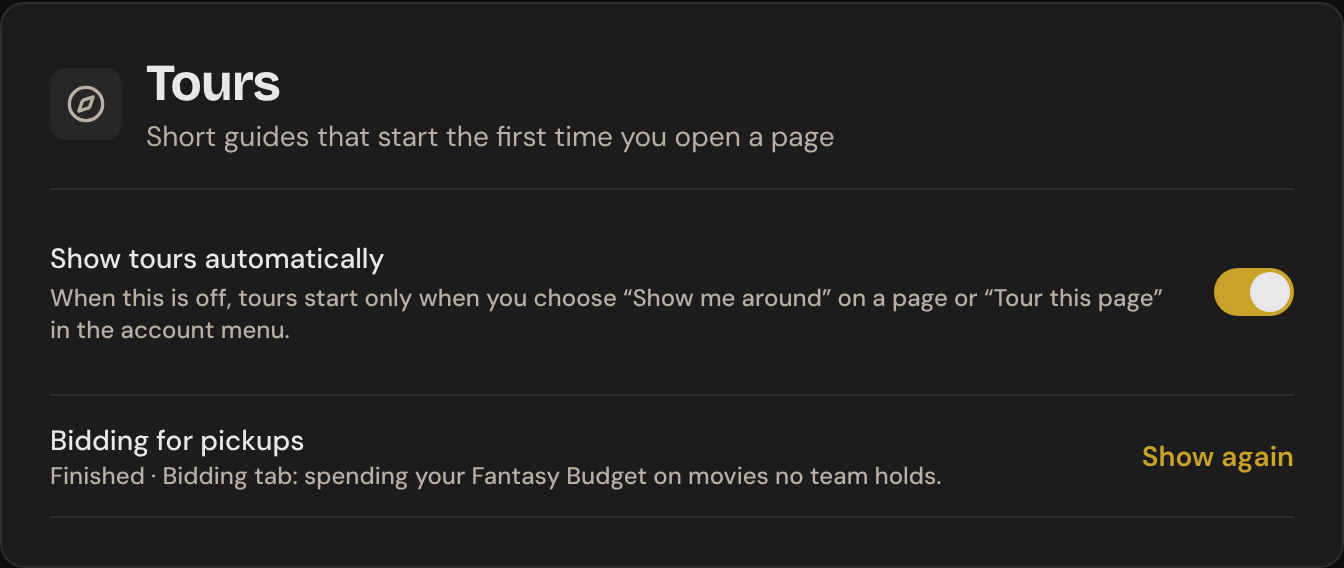
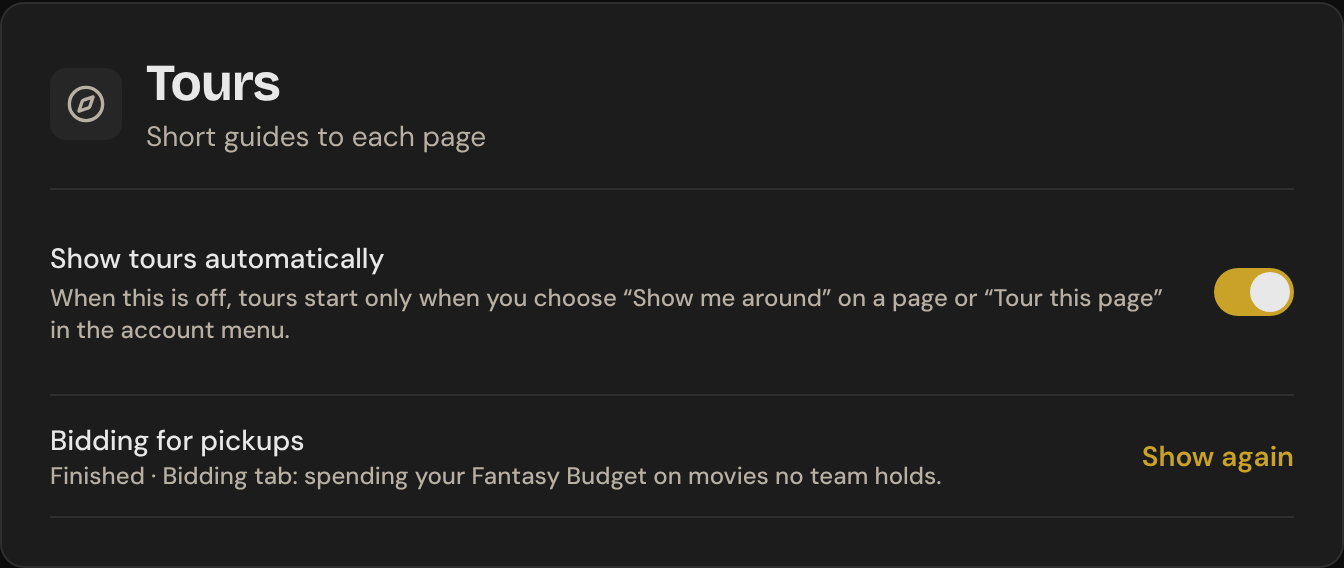
Tours: second design review round
44px phone targets for the close button, Back/Next and the Settings controls;
card border only on keyboard focus. Copy: who pays when the top bid can't
take the movie, budget doesn't refill during the season, drops only when the
roster is full, and Show again toasts that are true when tours are off.

Claude-Session: https://claude.ai/code/session_01Dp5HxViz5UM93jDb9v4QQR

Changed region(s): [[0.25, 0.2095, 0.625, 0.2694]]

diff --git a/apps/frontend/app/(authenticated)/settings/components/TourPreferences.tsx b/apps/frontend/app/(authenticated)/settings/components/TourPreferences.tsx
@@ -39,11 +39,15 @@ export default function TourPreferences(): React.ReactElement {
   const showAgain = useCallback(async (id?: TourId) => {
     try {
       await reset(id)
-      toast.success(id ? 'This tour will start next time you open its page' : 'All tours will start again on your next visit to each page')
+      if (enabled) {
+        toast.success(id ? 'This tour will start next time you open its page' : 'All tours will start again on your next visit to each page')
+      } else {
+        toast.success(id ? 'Tour reset. Choose “Show me around” on its page to see it.' : 'Tours reset. Choose “Show me around” on any page to see its tour.')
+      }
     } catch (error) {
       toast.error(error instanceof Error ? error.message : 'Couldn’t reset your tours. Try again.')
     }
-  }, [reset])
+  }, [enabled, reset])
   const { execute: executeReset, isLoading: resetting } = useAsyncAction(showAgain)
 
   // With one tour, its own Show again button already does this.
@@ -59,7 +63,7 @@ export default function TourPreferences(): React.ReactElement {
           <h2 id="tour-preferences-heading" className="type-section text-foreground">
             Tours
           </h2>
-          <p className="type-body-sm text-foreground-secondary">Short guides that start the first time you open a page</p>
+          <p className="type-body-sm text-foreground-secondary">Short guides to each page</p>
         </div>
       </div>
 
@@ -80,7 +84,7 @@ export default function TourPreferences(): React.ReactElement {
           type="button"
           onClick={() => executeToggle(!enabled)}
           aria-disabled={toggling || undefined}
-          className={`relative w-10 h-6 shrink-0 cursor-pointer rounded-full transition-colors aria-disabled:cursor-wait aria-disabled:opacity-60 ${
+          className={`relative w-10 h-6 shrink-0 cursor-pointer rounded-full before:absolute before:-inset-2.5 transition-colors aria-disabled:cursor-wait aria-disabled:opacity-60 ${
             enabled ? 'bg-gold' : 'bg-elevated border border-border'
           }`}
           role="switch"
@@ -113,7 +117,7 @@ export default function TourPreferences(): React.ReactElement {
                   type="button"
                   onClick={() => executeReset(tour.id as TourId)}
                   aria-disabled={resetting || undefined}
-                  className="type-control shrink-0 text-gold transition-colors hover:text-gold-hover aria-disabled:cursor-wait aria-disabled:opacity-60"
+                  className="type-control inline-flex min-h-[44px] shrink-0 items-center text-gold sm:min-h-0 transition-colors hover:text-gold-hover aria-disabled:cursor-wait aria-disabled:opacity-60"
                 >
                   Show again<span className="sr-only">: {tour.title}</span>
                 </button>

diff --git a/apps/frontend/components/tours/TourOverlay.tsx b/apps/frontend/components/tours/TourOverlay.tsx
@@ -173,7 +173,7 @@ export default function TourOverlay({
         aria-describedby={bodyId}
         data-testid="tour-card"
         data-tour-id={tour.tour.id}
-        className={`card tour-card focus-within:border-gold/40 pointer-events-auto fixed overflow-y-auto p-4 shadow-heavy animate-fade-in motion-reduce:animate-none ${
+        className={`card tour-card has-[:focus-visible]:border-gold/40 pointer-events-auto fixed overflow-y-auto p-4 shadow-heavy animate-fade-in motion-reduce:animate-none ${
           position?.docked ? 'w-[calc(100vw-24px)]' : 'w-[min(22rem,calc(100vw-24px))]'
         } ${position ? '' : 'opacity-0'}`}
         style={position ? { top: position.top, left: position.left, maxHeight: position.maxHeight } : { top: 0, left: 0 }}
@@ -185,7 +185,7 @@ export default function TourOverlay({
           <button
             type="button"
             onClick={onNotNow}
-            className="-mr-2 rounded p-2.5 text-foreground-secondary transition-colors hover:text-foreground"
+            className="-my-2 -mr-3 inline-flex min-h-[44px] min-w-[44px] items-center justify-center rounded text-foreground-secondary transition-colors hover:text-foreground sm:-mr-2 sm:min-h-0 sm:min-w-0 sm:p-2.5"
             aria-label="Not now"
           >
             <X className="h-4 w-4" aria-hidden="true" />
@@ -203,13 +203,13 @@ export default function TourOverlay({
 
         <div className="mt-4 flex items-center justify-between gap-3">
           {tour.index > 0 ? (
-            <button type="button" onClick={onBack} className="btn btn-ghost -ml-3 px-3 py-2.5 sm:py-1.5">
+            <button type="button" onClick={onBack} className="btn btn-ghost -ml-3 min-h-[44px] px-3 py-2.5 sm:min-h-0 sm:py-1.5">
               Back
             </button>
           ) : (
             <span />
           )}
-          <button type="button" onClick={onNext} className="btn btn-primary px-4 py-2.5 sm:py-1.5" data-testid="tour-next">
+          <button type="button" onClick={onNext} className="btn btn-primary min-h-[44px] px-4 py-2.5 sm:min-h-0 sm:py-1.5" data-testid="tour-next">
             {isLast ? 'Finish' : 'Next'}
           </button>
         </div>

diff --git a/apps/frontend/tours/definitions/bidding.ts b/apps/frontend/tours/definitions/bidding.ts
@@ -14,22 +14,22 @@ export const biddingTour = defineTour({
   steps: [
     {
       title: 'Pick up movies the draft missed',
-      body: 'Spend your Fantasy Budget on movies no team holds. Bids are settled once a week. The highest bid usually wins, and the winner pays what they bid. If that team has no room or budget left, the next-highest bid wins instead.',
+      body: 'Spend your Fantasy Budget on movies no team holds. Bids are settled once a week. The highest bid usually wins and pays its own amount. If that team can’t take the movie, the next-highest bid wins and pays its own amount.',
     },
     {
       anchor: 'bidding-budget',
       title: 'Your budget',
-      body: 'What you have left to spend. Winning bids come out of it, and it doesn’t reset each week, so pace yourself.',
+      body: 'What you have left to spend. Winning bids come out of it, and it doesn’t refill during the season, so pace yourself.',
     },
     {
       anchor: 'bid-week',
       title: 'The bidding week',
-      body: 'New bids close at the cutoff. After that comes counter bidding: until bids are settled, you can only bid on movies that already have bids, to top them or raise your own.',
+      body: 'New bids close at the cutoff. After that comes the counter-bid window: until bids are settled, you can only bid on movies that already have bids, to top them or raise your own.',
     },
     {
       anchor: 'place-bid',
       title: 'Place a bid',
-      body: 'Pick a movie and an amount. Your roster can be full. Choose a movie to drop, and it’s dropped only if this bid wins. If someone outbids you, you’ll hear about it and can bid again.',
+      body: 'Pick a movie and an amount. If your roster is full, choose a movie to drop. It’s dropped only if this bid wins. If someone outbids you, you’ll hear about it and can bid again.',
     },
     {
       anchor: 'place-counterpick-bid',
